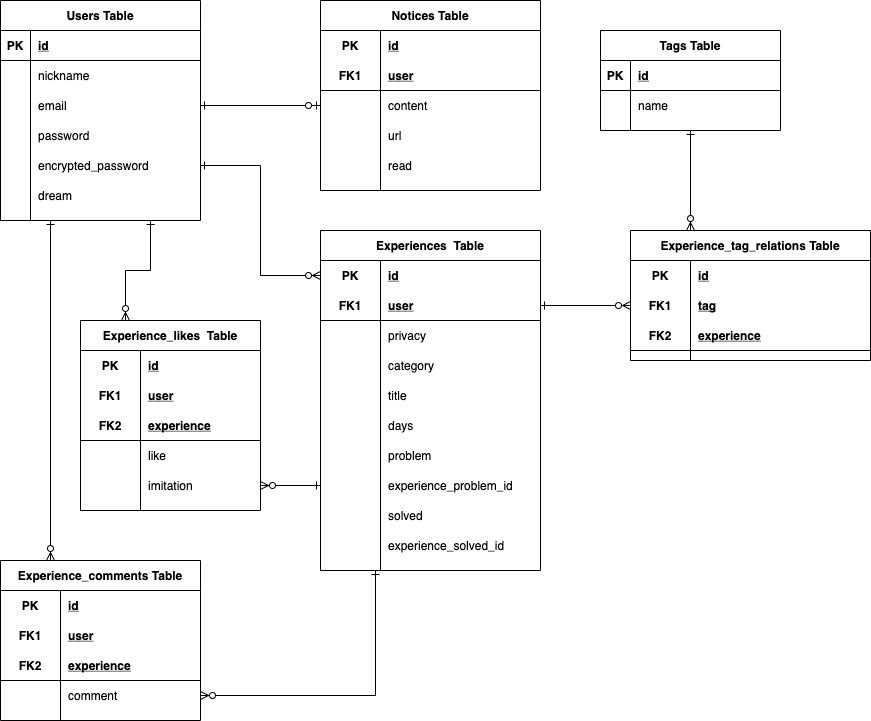
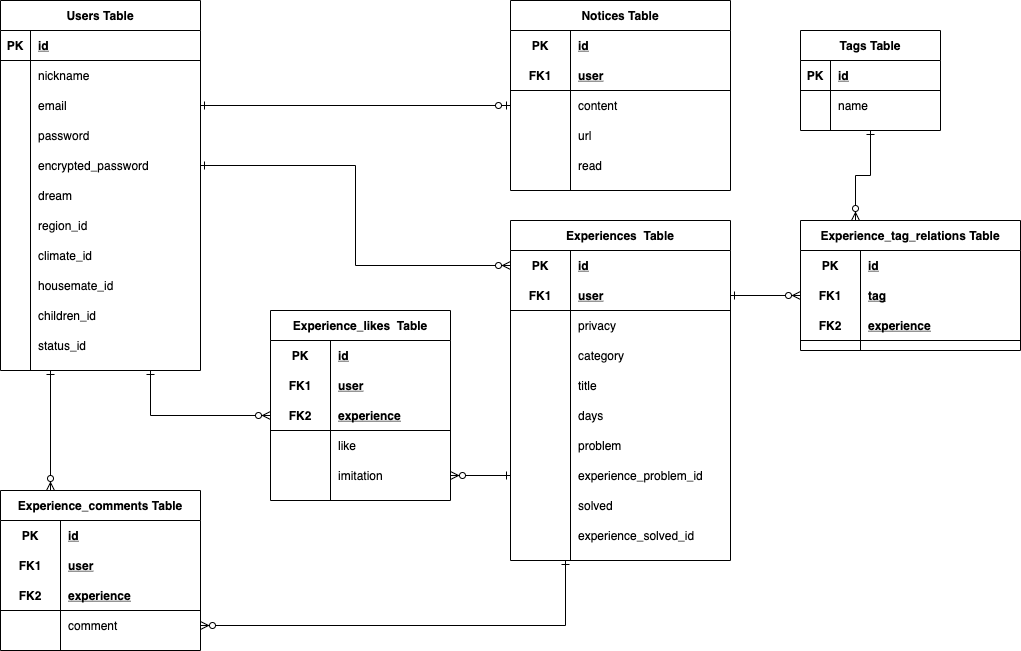
READMEの追記（途中）

diff --git a/README.md b/README.md
@@ -111,6 +111,7 @@
     * ログイン：ログインボタンを押して、ログインに成功した場合は、「経験の投稿を一覧表示／検索するページ」へ遷移する
     * ログイン：入力内容に不備がある場合は、ページにとどまり、エラーメッセージを表示する
     * ログイン：ページにとどまった場合は、入力中のデータは消えない（パスワードを除く）
+    * Twitter：Twitterアカウントでログインする
   * 表示
     * エラーメッセージは日本語で表示する
 * 状態：ログイン済ユーザーが画面を表示した
@@ -120,16 +121,17 @@
 ## 7.5 サインイン（手入力版／Twitter連携）ページ の要件
 * 状態：未ログインユーザーが画面を表示した
   * 入力エリア
+    * 登録方法　　　：必須、手入力／Twitter
     * ニックネーム　：必須、１文字以上６文字以下
     * メールアドレス：必須、＠マークを含む
     * パスワード　　：必須、６文字以上３２文字以下、半角英数字混合
     * パスワード確認：必須、パスワードとパスワード（確認）は、値の一致
     * 注力したい思考：任意、テキストエリア
-    * 住まいの地域　：必須、「北海道または東北、関東、中部、関西、中国または四国、九州または沖縄」
-    * 住まいの気候　：必須、「寒い地域、温かい地域、寒暖差の少ない地域」
-    * 同居人　　　　：必須、「1〜15」人暮らし
-    * （うち子供）　：必須、「0〜15」人
-    * 実施状況　　　：任意、「全て／大半／一部」の生活に関わるモノｘ「かなり／ある程度／ちょっとだけ」減らしている
+    * 住まいの地域　：任意、「北海道または東北、関東、中部、関西、中国または四国、九州または沖縄」
+    * 住まいの気候　：任意、「比較的寒い地域、比較的温かい地域、寒暖差の少ない地域」
+    * 同居人　　　　：任意、「１人／２人／家族」人暮らし
+    * （うち未成年）：任意、「有／無」
+    * 状況　　　　　：任意、「すでにかなり物が少ない／ある程度物を減らして片付いている／ちょっとだけ減らした／まだ何もしてない」
   * ボタン
     * 新規作成：入力エリアに入力して新規作成ボタンを押す
     * 新規作成：新規作成ボタンを押して、アカウントの作成に成功した場合は、ログイン済みとなり、「経験の投稿を一覧表示／検索するページ」へ遷移する
@@ -309,46 +311,36 @@
 
 # 9. 実装予定の機能
 
-# 9.1 機能一覧
-
-* ユーザー管理機能
-  * ユーザー新規作成
-  * ログイン／ログアウト
-  * ユーザー情報の設定
-* 経験の投稿機能
-  * 投稿機能
-  * 編集機能
-  * 削除機能
-  * 検索機能
-  * 評価機能（いいね、真似した）
-  * コメント機能
-* 思考の共有機能
-  * 投稿機能
-  * 検索機能
-  * 評価機能（いいね）
-  * コメント機能
-* 更新通知機能（通知プルダウン、メール通知）
-  * ユーザーウォッチ
-  * カテゴリーウォッチ
-  * 思考の共有ウォッチ
-* ランキング（週間、月間、年間、総合）
-  * 経験の投稿x評価機能（いいね数or真似した数）ランキング
-  * ユーザー（経験の投稿数ｘ経験コメント数ｘ主張コメント数）ランキング
-  * 思考の共有いいね数ランキング
+* メール通知による更新通知機能
 * Twitter連動
   * ログイン連動
   * 投稿連動
+* スマホアプリ用にサーバーサイドのAPIサーバー化
+* スマホアプリ（ネイティブ）の製作
 
 # 10. データベース設計
 
 ## 10.1 ER図
 
-![経験の投稿 ER図](./doc/table-experience.png "経験の投稿 ER図")
+![経験の投稿 ER図](./doc/table-experience.jpg "経験の投稿 ER図")
 
-![思考の共有 ER図](./doc/table-idea.png "思考の共有 ER図")
+![思考の共有 ER図](./doc/table-idea.jpg "思考の共有 ER図")
+
+## users テーブル
+
+| Column             | Type   | Options                   |
+| ------------------ | ------ | ------------------------- |
+| email              | string | null: false, unique: true |
+| encrypted_password | string | null: false               |
+| nickname           | string | null: false               |
 
 
+### Association
 
+- has_many :experiences
+- has_many :experience_likes
+- has_many :experience_comments
+- has_many :notices
 
 
 # 11. ローカルでの動作方法
